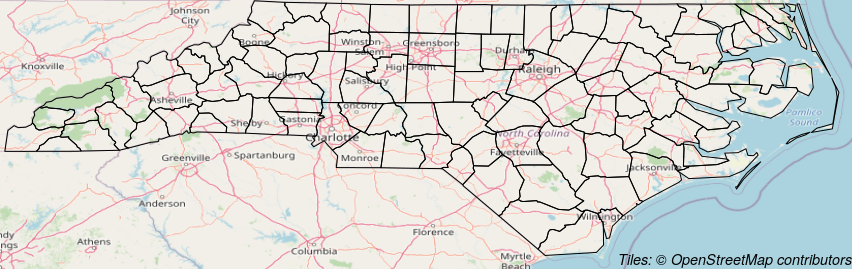
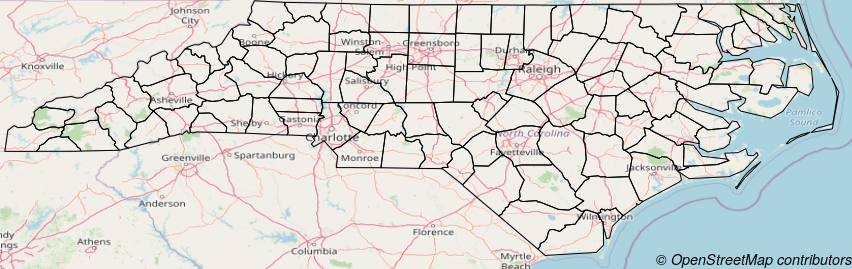
readme

diff --git a/README.md b/README.md
@@ -5,10 +5,12 @@
 
 <!-- badges: start -->
 
+[![R-CMD-check](https://github.com/riatelab/maptiles/workflows/R-CMD-check/badge.svg)](https://github.com/riatelab/maptiles/actions)
 [![codecov](https://codecov.io/gh/riatelab/maptiles/branch/main/graph/badge.svg?token=R7T2PCTERH)](https://codecov.io/gh/riatelab/maptiles/)
 <!-- badges: end -->
 
-The goal of `maptiles` is to download, compose and display map tiles.
+The goal of `maptiles` is to download, compose and display map tiles
+with R.
 
 ## Installation
 
@@ -17,7 +19,7 @@ The goal of `maptiles` is to download, compose and display map tiles.
 <!-- install.packages("maptiles") -->
 <!-- ``` -->
 
-You can install the development version of maptiles from GitHub with:
+You can install the development version of `maptiles` from GitHub with:
 
 ``` r
 # install.packages("devtools")
@@ -40,7 +42,7 @@ nc_osm <- mp_get_tiles(nc, crop = TRUE)
 # display map
 mp_tiles(nc_osm)
 plot(st_geometry(nc), col = NA, add = TRUE)
-mtext(text = "Tiles: © OpenStreetMap contributors", 
+mtext(text = mp_get_tiles_attribution("OpenStreetMap"), 
       side = 1, line = -1, adj = 1, cex = .9, font = 3)
 ```
 
@@ -57,7 +59,7 @@ fullserver <- paste("https://server.arcgisonline.com/ArcGIS/rest/services",
                     "tile/{z}/{y}/{x}.jpg",
                     sep = "/")
 # define the tile server parameter
-typeosm <-  list(
+esri <-  list(
   src = 'esri',
   q = fullserver,
   sub = NA,
@@ -65,7 +67,7 @@ typeosm <-  list(
 )
 
 # dowload tiles and compose raster (SpatRaster)
-nc_ESRI <- mp_get_tiles(x = nc, type = typeosm, crop = TRUE, 
+nc_esri <- mp_get_tiles(x = nc, provider = esri, crop = TRUE, 
                         cachedir = "tilesfolder", verbose = TRUE)
 #> https://server.arcgisonline.com/ArcGIS/rest/services/Specialty/DeLorme_World_Base_Map/MapServer/tile/7/50/34.jpg => tilesfolder/esri/esri_7_34_50.jpg
 #> https://server.arcgisonline.com/ArcGIS/rest/services/Specialty/DeLorme_World_Base_Map/MapServer/tile/7/50/35.jpg => tilesfolder/esri/esri_7_35_50.jpg
@@ -79,11 +81,23 @@ nc_ESRI <- mp_get_tiles(x = nc, type = typeosm, crop = TRUE,
 #> Data and map tiles sources:
 #> Tiles: Esri; Copyright: 2012 DeLorme
 # display map
-mp_tiles(nc_ESRI)
-mtext(text = typeosm$cit, side = 1, line = -1, adj = 1, cex = .9, font = 3)
+mp_tiles(nc_esri)
+mtext(text = esri$cit, side = 1, line = -1, adj = 1, cex = .9, font = 3)
 ```
 
 <img src="man/figures/README-example2-1.png" width="852" height="269" />
+
+The following figure shows mini maps for most of the providers
+available:
+
+<img src="man/figures/README-front.png" width="840" height="756" />
+
+## Attribution of map tiles
+
+All maps available through `maptiles` are offered freely by various
+providers. The only counterpart from the user is to properly display an
+attribution text on the maps. `mp_get_tiles_attribution()` display a
+short credit text to add on each map produced with the downloaded tiles.
 
 ## Background
 
